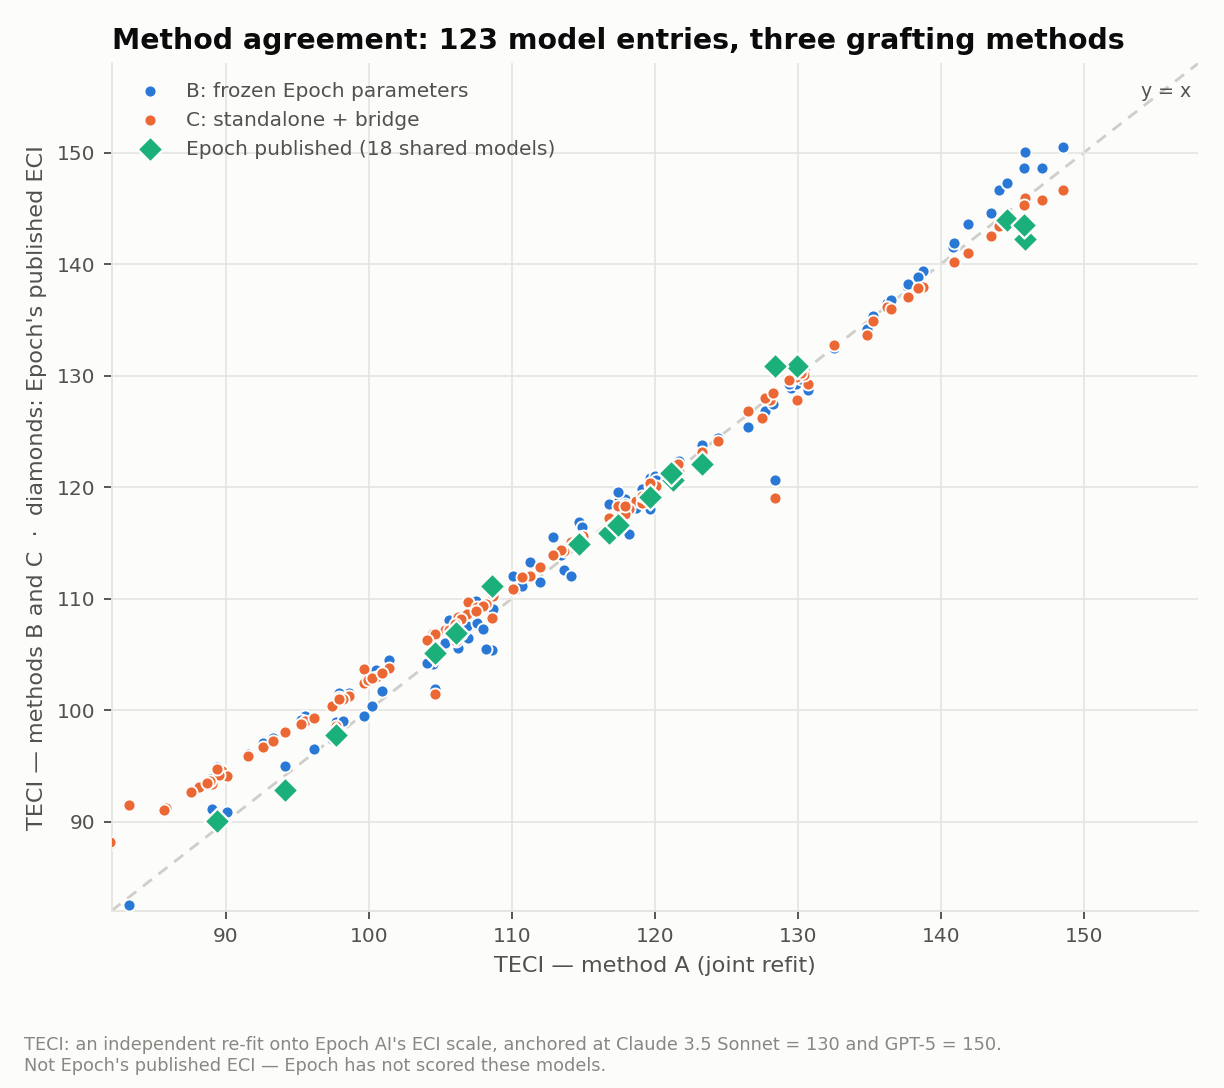
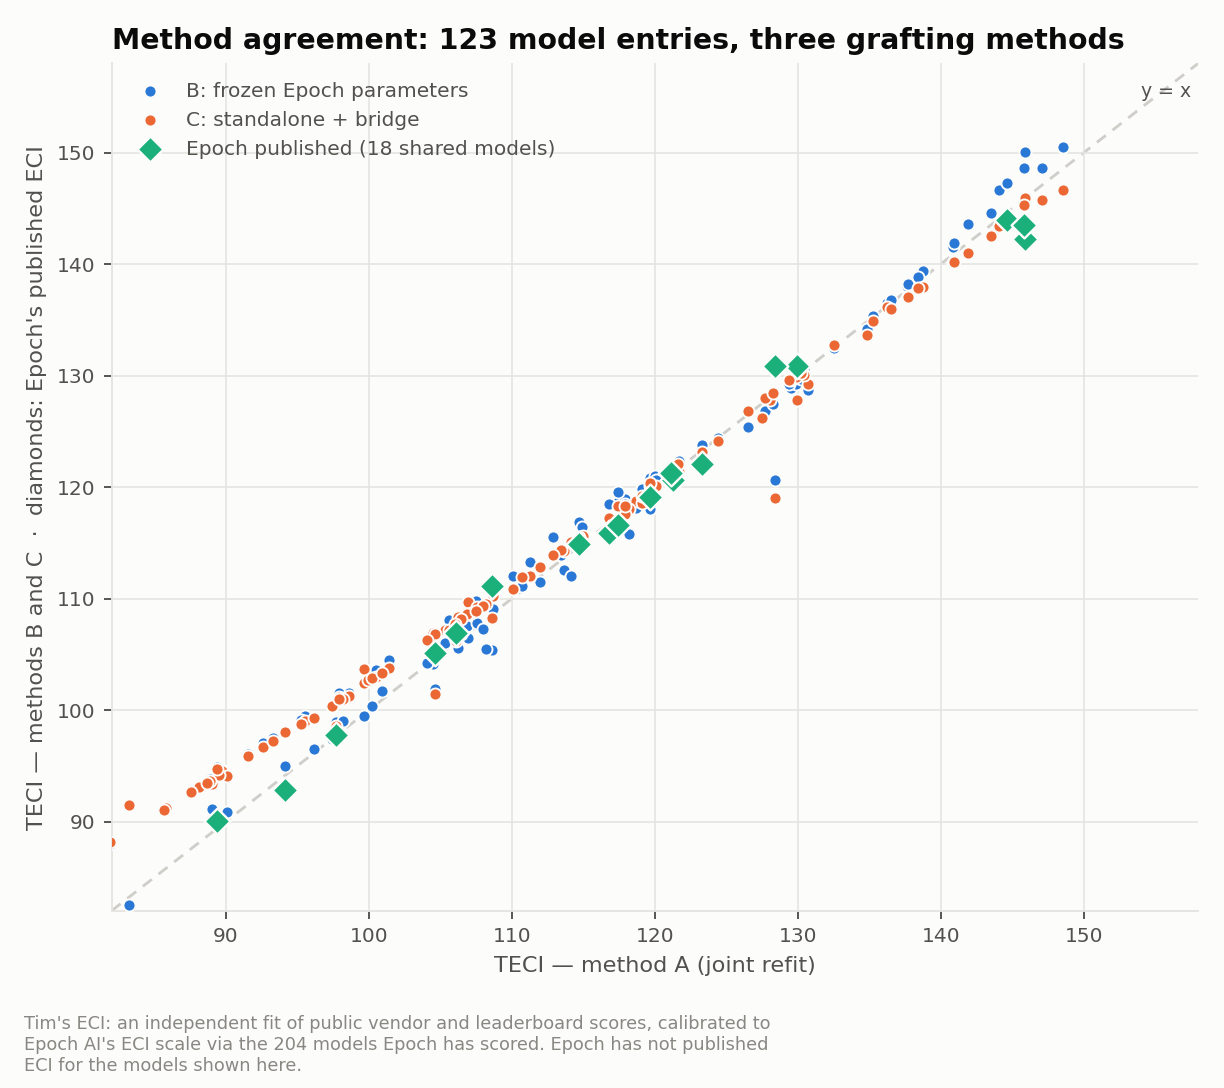
Rename the metric to Tim's ECI (TECI)
Follows Anthropic's convention for their own variant ("Anthropic ECI"):
owner's name in front of the metric, which reads as "our version of ECI"
and implies no endorsement by Epoch. Replaces "TECI (Tim's ECI-scale
estimate)", which was accurate but clumsy.

The footnote deliberately does NOT copy Anthropic's caveat. Theirs is
powered by internal benchmarks and so is genuinely not comparable to
Epoch's published ECI. Ours is calibrated onto Epoch's scale through the
204 models they have scored (r=0.9998) -- comparability is the design.
What differs is coverage: Epoch has not scored these small models, so the
values are our estimates. "Not directly comparable" would disclaim the
wrong thing.

Units are TECI/yr throughout, including in the generated docs
(tier_trends.md, sensitivity.md), so the table views match their charts.

Also drops "(Qwen1.5 onward)" from the Qwen chart title -- the generation
labels along the top now say where the series starts.

Changed region(s): [[0.0, 0.9375, 0.8072, 1.0]]

diff --git a/scripts/mk_chart_families.py b/scripts/mk_chart_families.py
@@ -8,7 +8,7 @@
                           each family's time coverage impossible to miss --
                           SmolLM's twelve entries all land in one quarter, which
                           is why it moves the pooled slope so much.
-(2) eci_tier_gap.png    — how the headline number (how many ECI/yr faster the
+(2) eci_tier_gap.png    — how the headline number (how many TECI/yr faster the
                           >10B tier improves than the small tier) moves as the
                           sample and the tier definition change.
 
@@ -33,10 +33,10 @@ MUTED, GRID, AXIS = "#898781", "#e1e0d9", "#c3c2b7"
 
 # Our estimates in the units of Epoch's ECI scale; Epoch has not scored these
 # models, so the axis must not say "ECI". See mk_chart_qwen.py for the rationale.
-TECI_AXIS = "TECI (Tim's ECI-scale estimate)"
-TECI_NOTE = ("TECI: an independent re-fit onto Epoch AI's ECI scale, anchored at "
-             "Claude 3.5 Sonnet = 130 and GPT-5 = 150.\n"
-             "Not Epoch's published ECI — Epoch has not scored these models.")
+TECI_AXIS = "Tim's ECI (TECI)"
+TECI_NOTE = ("Tim's ECI: an independent fit of public vendor and leaderboard scores, calibrated to\n"
+             "Epoch AI's ECI scale via the 204 models Epoch has scored. Epoch has not published\n"
+             "ECI for the models shown here.")
 # ordinal ramp, light -> dark = small -> large
 TIER_C = {"≤2B": "#86b6ef", "2–10B": "#2a78d6", ">10B": "#104281"}
 TIERS = list(TIER_C)
@@ -162,7 +162,7 @@ fig2.tight_layout(rect=(0, 0, 1, 0.86))
 fig2.savefig("eci_tier_gap.png", dpi=170, facecolor=SURF)
 
 # ---- table-view twin (relief for the sub-3:1 palette steps, and the numbers) --
-rows = ["# Tier trends (method A)", "", "| family | tier | n | span (yrs) | slope ECI/yr | mean ECI |",
+rows = ["# Tier trends (method A)", "", "| family | tier | n | span (yrs) | slope TECI/yr | mean TECI |",
         "|---|---|---:|---:|---:|---:|"]
 for fam in FAMS:
     for tier in TIERS:
@@ -174,7 +174,7 @@ for fam in FAMS:
               if len(s) >= MIN_N and span >= MIN_SPAN_YRS else "—")
         rows.append(f"| {fam} | {tier} | {len(s)} | {span:.2f} | {sl} | {s.eci_A.mean():.1f} |")
 rows += ["", "## Size-gap estimate under each sample / tier definition", "",
-         "| definition | small-tier n | gap (ECI/yr) |", "|---|---:|---:|"]
+         "| definition | small-tier n | gap (TECI/yr) |", "|---|---:|---:|"]
 rows += [f"| {lbl} | {n} | {v:.2f} |" for lbl, v, n in STEPS]
 open("../docs/tier_trends.md", "w", encoding="utf-8").write("\n".join(rows) + "\n")
 print("saved eci_families.png, eci_tier_gap.png, docs/tier_trends.md")

diff --git a/scripts/mk_chart_qwen.py b/scripts/mk_chart_qwen.py
@@ -10,15 +10,20 @@ SURF, INK, INK2, GRID = "#fcfcfb", "#0b0b0b", "#52514e", "#e5e4e0"
 MUTED = "#898781"
 C = ["#2a78d6", "#eb6834", "#1baf7a", "#eda100", "#e87ba4", "#008300"]
 
-# These are OUR estimates, expressed in the units of Epoch's ECI scale -- Epoch
-# has not scored any of these models. Labelling the axis "ECI" would credit them
-# with numbers they did not publish, so every chart says TECI and carries the
-# footnote. Deliberately expanded as "ECI-scale estimate" rather than as an
-# Epoch-branded index: the scale is theirs, the estimates are not.
-TECI_AXIS = "TECI (Tim's ECI-scale estimate)"
-TECI_NOTE = ("TECI: an independent re-fit onto Epoch AI's ECI scale, anchored at "
-             "Claude 3.5 Sonnet = 130 and GPT-5 = 150.\nNot Epoch's published ECI — "
-             "Epoch has not scored these models.")
+# Naming follows Anthropic's convention for their own variant ("Anthropic ECI"):
+# owner's name in front of the metric, which reads as "our version of ECI" and
+# implies no endorsement by Epoch.
+#
+# The caveat differs from theirs, though. Anthropic's is powered by internal
+# benchmarks and so is NOT comparable to Epoch's published ECI. Ours is
+# calibrated onto Epoch's scale through the 204 models they have scored
+# (r=0.9998) -- comparability is the point. What differs is coverage: Epoch has
+# not scored the small models we care about, so these values are our estimates.
+# Saying "not directly comparable" here would disclaim the wrong thing.
+TECI_AXIS = "Tim's ECI (TECI)"
+TECI_NOTE = ("Tim's ECI: an independent fit of public vendor and leaderboard scores, calibrated to\n"
+             "Epoch AI's ECI scale via the 204 models Epoch has scored. Epoch has not published\n"
+             "ECI for the models shown here.")
 
 r = pd.read_csv("results_methods.csv")
 r["date"] = pd.to_datetime(r.release.astype(str), format="%Y-%m")
@@ -87,7 +92,8 @@ ax.set_xlim(pd.Timestamp("2024-01-01"), pd.Timestamp("2026-09-01"))
 ax.set_ylabel(TECI_AXIS, color=INK2, fontsize=10)
 ax.legend(loc="lower right", fontsize=8.5, frameon=False, labelcolor=INK2,
           title="size track", title_fontsize=8.5)
-ax.set_title("Qwen models on the TECI scale, by size track (Qwen1.5 onward)",
+# no "(Qwen1.5 onward)": the generation labels along the top say where it starts
+ax.set_title("Qwen models on the TECI scale, by size track",
              color=INK, fontsize=13, loc="left", fontweight="bold", pad=34)
 # the disclaimer rides at the foot rather than under the title, so the header
 # stays clean and the claim is still on the chart wherever it gets pasted

diff --git a/scripts/sensitivity.py b/scripts/sensitivity.py
@@ -100,7 +100,7 @@ meta["yrs"] = (meta.rel - pd.Timestamp("2023-01-01")).dt.days / 365.25
 
 
 def tier_gap(eci):
-    """ECI/yr advantage of the >10B tier over the <=2B tier."""
+    """TECI/yr advantage of the >10B tier over the <=2B tier."""
     d = meta.dropna(subset=["rel"]).copy()
     d["eci"] = pd.Series(eci)
     d = d.dropna(subset=["eci", "params"])
@@ -112,7 +112,7 @@ def tier_gap(eci):
 
 base = run_method_a(ours)
 base_gap = tier_gap(base)
-print(f"baseline: {len(base)} entries, tier gap {base_gap:.2f} ECI/yr\n")
+print(f"baseline: {len(base)} entries, tier gap {base_gap:.2f} TECI/yr\n")
 
 rows = []
 for name, desc, fn in VARIANTS:
@@ -139,8 +139,8 @@ lines = [
     "# Sensitivity pass — flagged instrument-identity assumptions",
     "",
     "Method A refit with each flagged merge from `docs/connectivity_audit.md`",
-    "reversed. `mean|d|` / `max|d|` are shifts in fitted ECI across our entries;",
-    "`tier gap` is the headline quantity — how many ECI/yr faster the >10B tier",
+    "reversed. `mean|d|` / `max|d|` are shifts in fitted TECI across our entries;",
+    "`tier gap` is the headline quantity — how many TECI/yr faster the >10B tier",
     f"improves than the <=2B tier (baseline **{base_gap:.2f}**). A variant that barely",
     "moves the gap is an assumption the conclusion does not rest on.",
     "",
@@ -154,6 +154,6 @@ lines += ["", "## What each variant tests", ""]
 for r in res.itertuples():
     lines.append(f"- **`{r.variant}`** — {r.what}")
 OUT.write_text("\n".join(lines) + "\n", encoding="utf-8")
-print(f"\nbaseline tier gap: {base_gap:.2f} ECI/yr")
-print(f"largest gap shift: {res.gap_delta.abs().max():.2f} ECI/yr ({res.loc[res.gap_delta.abs().idxmax(), 'variant']})")
+print(f"\nbaseline tier gap: {base_gap:.2f} TECI/yr")
+print(f"largest gap shift: {res.gap_delta.abs().max():.2f} TECI/yr ({res.loc[res.gap_delta.abs().idxmax(), 'variant']})")
 print(f"wrote {OUT}")

diff --git a/scripts/mk_charts.py b/scripts/mk_charts.py
@@ -12,10 +12,10 @@ C = ["#2a78d6", "#eb6834", "#1baf7a", "#eda100", "#e87ba4", "#008300"]
 
 # Our estimates in the units of Epoch's ECI scale; Epoch has not scored these
 # models, so the axis must not say "ECI". See mk_chart_qwen.py for the rationale.
-TECI_AXIS = "TECI (Tim's ECI-scale estimate)"
-TECI_NOTE = ("TECI: an independent re-fit onto Epoch AI's ECI scale, anchored at "
-             "Claude 3.5 Sonnet = 130 and GPT-5 = 150.\n"
-             "Not Epoch's published ECI — Epoch has not scored these models.")
+TECI_AXIS = "Tim's ECI (TECI)"
+TECI_NOTE = ("Tim's ECI: an independent fit of public vendor and leaderboard scores, calibrated to\n"
+             "Epoch AI's ECI scale via the 204 models Epoch has scored. Epoch has not published\n"
+             "ECI for the models shown here.")
 
 r = pd.read_csv("results_methods.csv")
 r["date"] = pd.to_datetime(r.release.astype(str), format="%Y-%m")

diff --git a/docs/sensitivity.md b/docs/sensitivity.md
@@ -1,8 +1,8 @@
 # Sensitivity pass — flagged instrument-identity assumptions
 
 Method A refit with each flagged merge from `docs/connectivity_audit.md`
-reversed. `mean|d|` / `max|d|` are shifts in fitted ECI across our entries;
-`tier gap` is the headline quantity — how many ECI/yr faster the >10B tier
+reversed. `mean|d|` / `max|d|` are shifts in fitted TECI across our entries;
+`tier gap` is the headline quantity — how many TECI/yr faster the >10B tier
 improves than the <=2B tier (baseline **1.26**). A variant that barely
 moves the gap is an assumption the conclusion does not rest on.
 

diff --git a/docs/tier_trends.md b/docs/tier_trends.md
@@ -1,6 +1,6 @@
 # Tier trends (method A)
 
-| family | tier | n | span (yrs) | slope ECI/yr | mean ECI |
+| family | tier | n | span (yrs) | slope TECI/yr | mean TECI |
 |---|---|---:|---:|---:|---:|
 | Qwen | ≤2B | 16 | 2.25 | +12.87 | 107.9 |
 | Qwen | 2–10B | 16 | 2.51 | +18.65 | 122.5 |
@@ -20,7 +20,7 @@
 
 ## Size-gap estimate under each sample / tier definition
 
-| definition | small-tier n | gap (ECI/yr) |
+| definition | small-tier n | gap (TECI/yr) |
 |---|---:|---:|
 | Qwen/Gemma only, previous fit | 25 | 3.30 |
 | same entries, recalibrated instruments | 25 | 2.81 |
